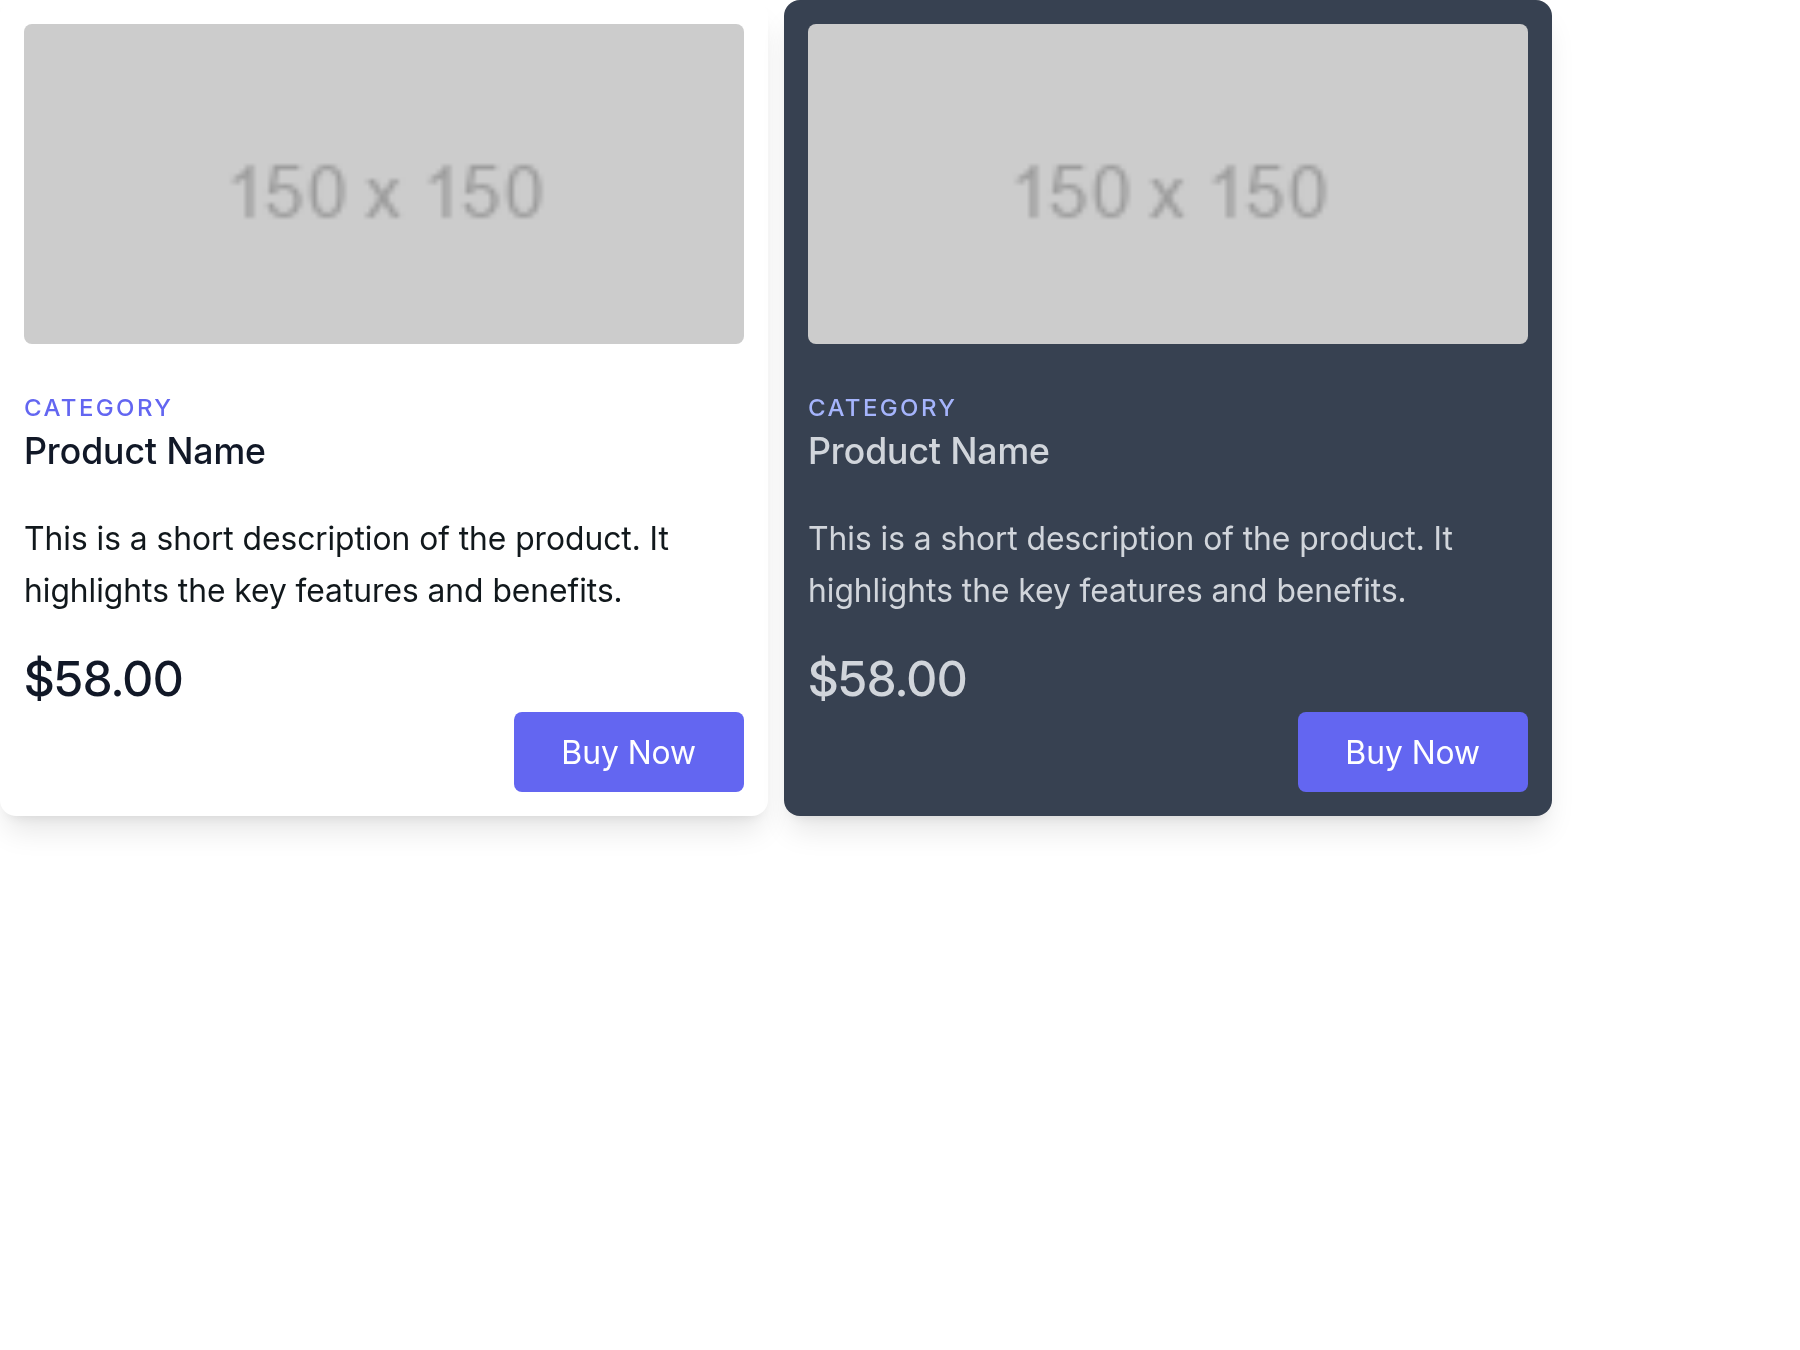
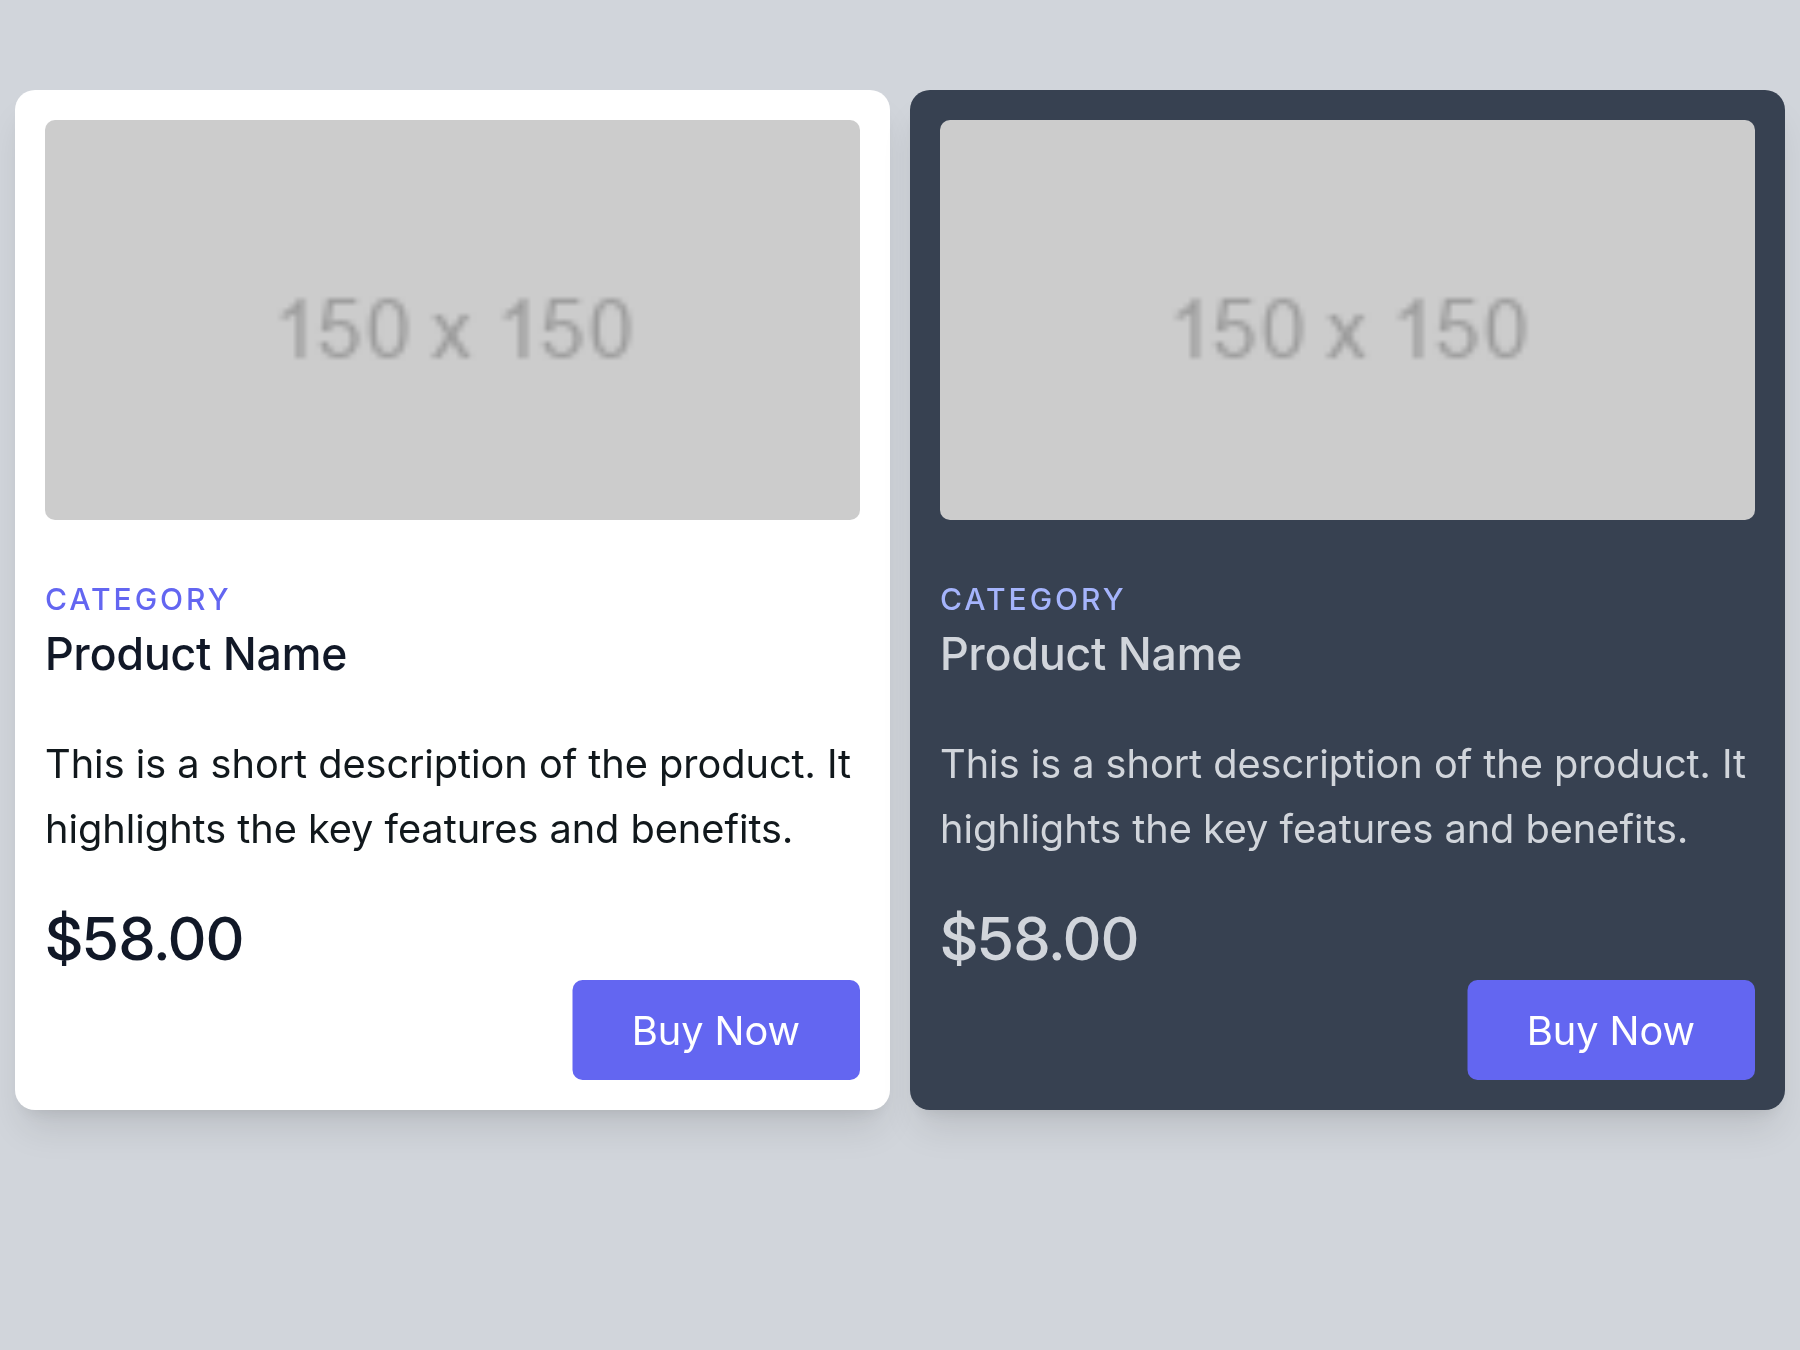
feat: add web fullscreen preview

diff --git a/app/routes/_index.tsx b/app/routes/_index.tsx
@@ -1,10 +1,16 @@
-import { Button, Select, SelectItem } from "@nextui-org/react"
+import { Button, Link, Select, SelectItem } from "@nextui-org/react"
 import type { MetaFunction } from "@remix-run/node"
 import { useSearchParams } from "@remix-run/react"
 import clsx from "clsx"
 import { useEffect, useState } from "react"
-import { ProductCard } from "~/components/product-card"
-import { alignments, backgrounds, justifications, paddings } from "~/configs"
+import { Component } from "~/components/component"
+import {
+  alignments,
+  backgrounds,
+  justifications,
+  paddings,
+  scaleFactors,
+} from "~/configs"
 
 export const meta: MetaFunction = () => {
   return [
@@ -20,12 +26,14 @@ export default function Index() {
   const [alignment, setAlignment] = useState("")
   const [justification, setJustification] = useState("")
   const [background, setBackground] = useState("ash")
+  const [scaleFactor, setScaleFactor] = useState("md")
 
   useEffect(() => {
     setPadding(searchParams.get("padding") ?? "")
     setAlignment(searchParams.get("alignment") ?? "")
     setJustification(searchParams.get("justification") ?? "")
     setBackground(searchParams.get("background") ?? "")
+    setScaleFactor(searchParams.get("scaleFactor") ?? "")
   }, [searchParams])
 
   return (
@@ -60,11 +68,18 @@ export default function Index() {
             onChange={setBackground}
             value={background}
           />
+          <SelectConfigs
+            label="Scale Factor"
+            items={scaleFactors}
+            onChange={setScaleFactor}
+            value={scaleFactor}
+          />
           <Button
             className="w-full mt-4"
+            color="success"
             onClick={() => {
               fetch(
-                `screenshots?padding=${padding}&alignment=${alignment}&justification=${justification}&background=${background}`,
+                `screenshots?padding=${padding}&alignment=${alignment}&justification=${justification}&background=${background}&scaleFactor=${scaleFactor}`,
                 {
                   method: "GET",
                 }
@@ -83,6 +98,14 @@ export default function Index() {
           >
             Download
           </Button>
+          <Button
+            as={Link}
+            href="/preview"
+            className="w-full mt-4"
+            target="_blank"
+          >
+            Preview in web screen
+          </Button>
         </div>
         <div className="flex justify-center w-9/12 items-center">
           <div
@@ -95,8 +118,10 @@ export default function Index() {
             )}
             id="screen"
           >
-            {/* Render your components here */}
-            <ProductCard />
+            <div className={clsx("w-auto h-auto", scaleFactor)}>
+              {/* Render your components here */}
+              <Component />
+            </div>
           </div>
         </div>
       </div>

diff --git a/app/configs/index.ts b/app/configs/index.ts
@@ -21,6 +21,16 @@ export const justifications = [
   { key: "end", value: "justify-end" },
 ]
 
+export const scaleFactors = [
+  { key: "none", value: "" },
+  { key: "xs", value: "scale-75" },
+  { key: "sm", value: "scale-90" },
+  { key: "md", value: "scale-100" },
+  { key: "lg", value: "scale-105" },
+  { key: "xl", value: "scale-110" },
+  { key: "2xl", value: "scale-125" },
+]
+
 export const backgrounds = [
   { key: "none", value: "" },
   { key: "Amber", value: "bg-amber-500" },

diff --git a/app/routes/preview.tsx b/app/routes/preview.tsx
@@ -1,0 +1,9 @@
+import { Component } from "~/components/component"
+
+export default function Preview() {
+  return (
+    <div className="w-screen h-screen">
+      <Component />
+    </div>
+  )
+}

diff --git a/app/components/component.tsx b/app/components/component.tsx
@@ -1,4 +1,4 @@
-export function ProductCard() {
+export function Component() {
   return (
     <div className="flex gap-2">
       <div className="bg-white p-3 rounded-lg shadow-lg max-w-96">
